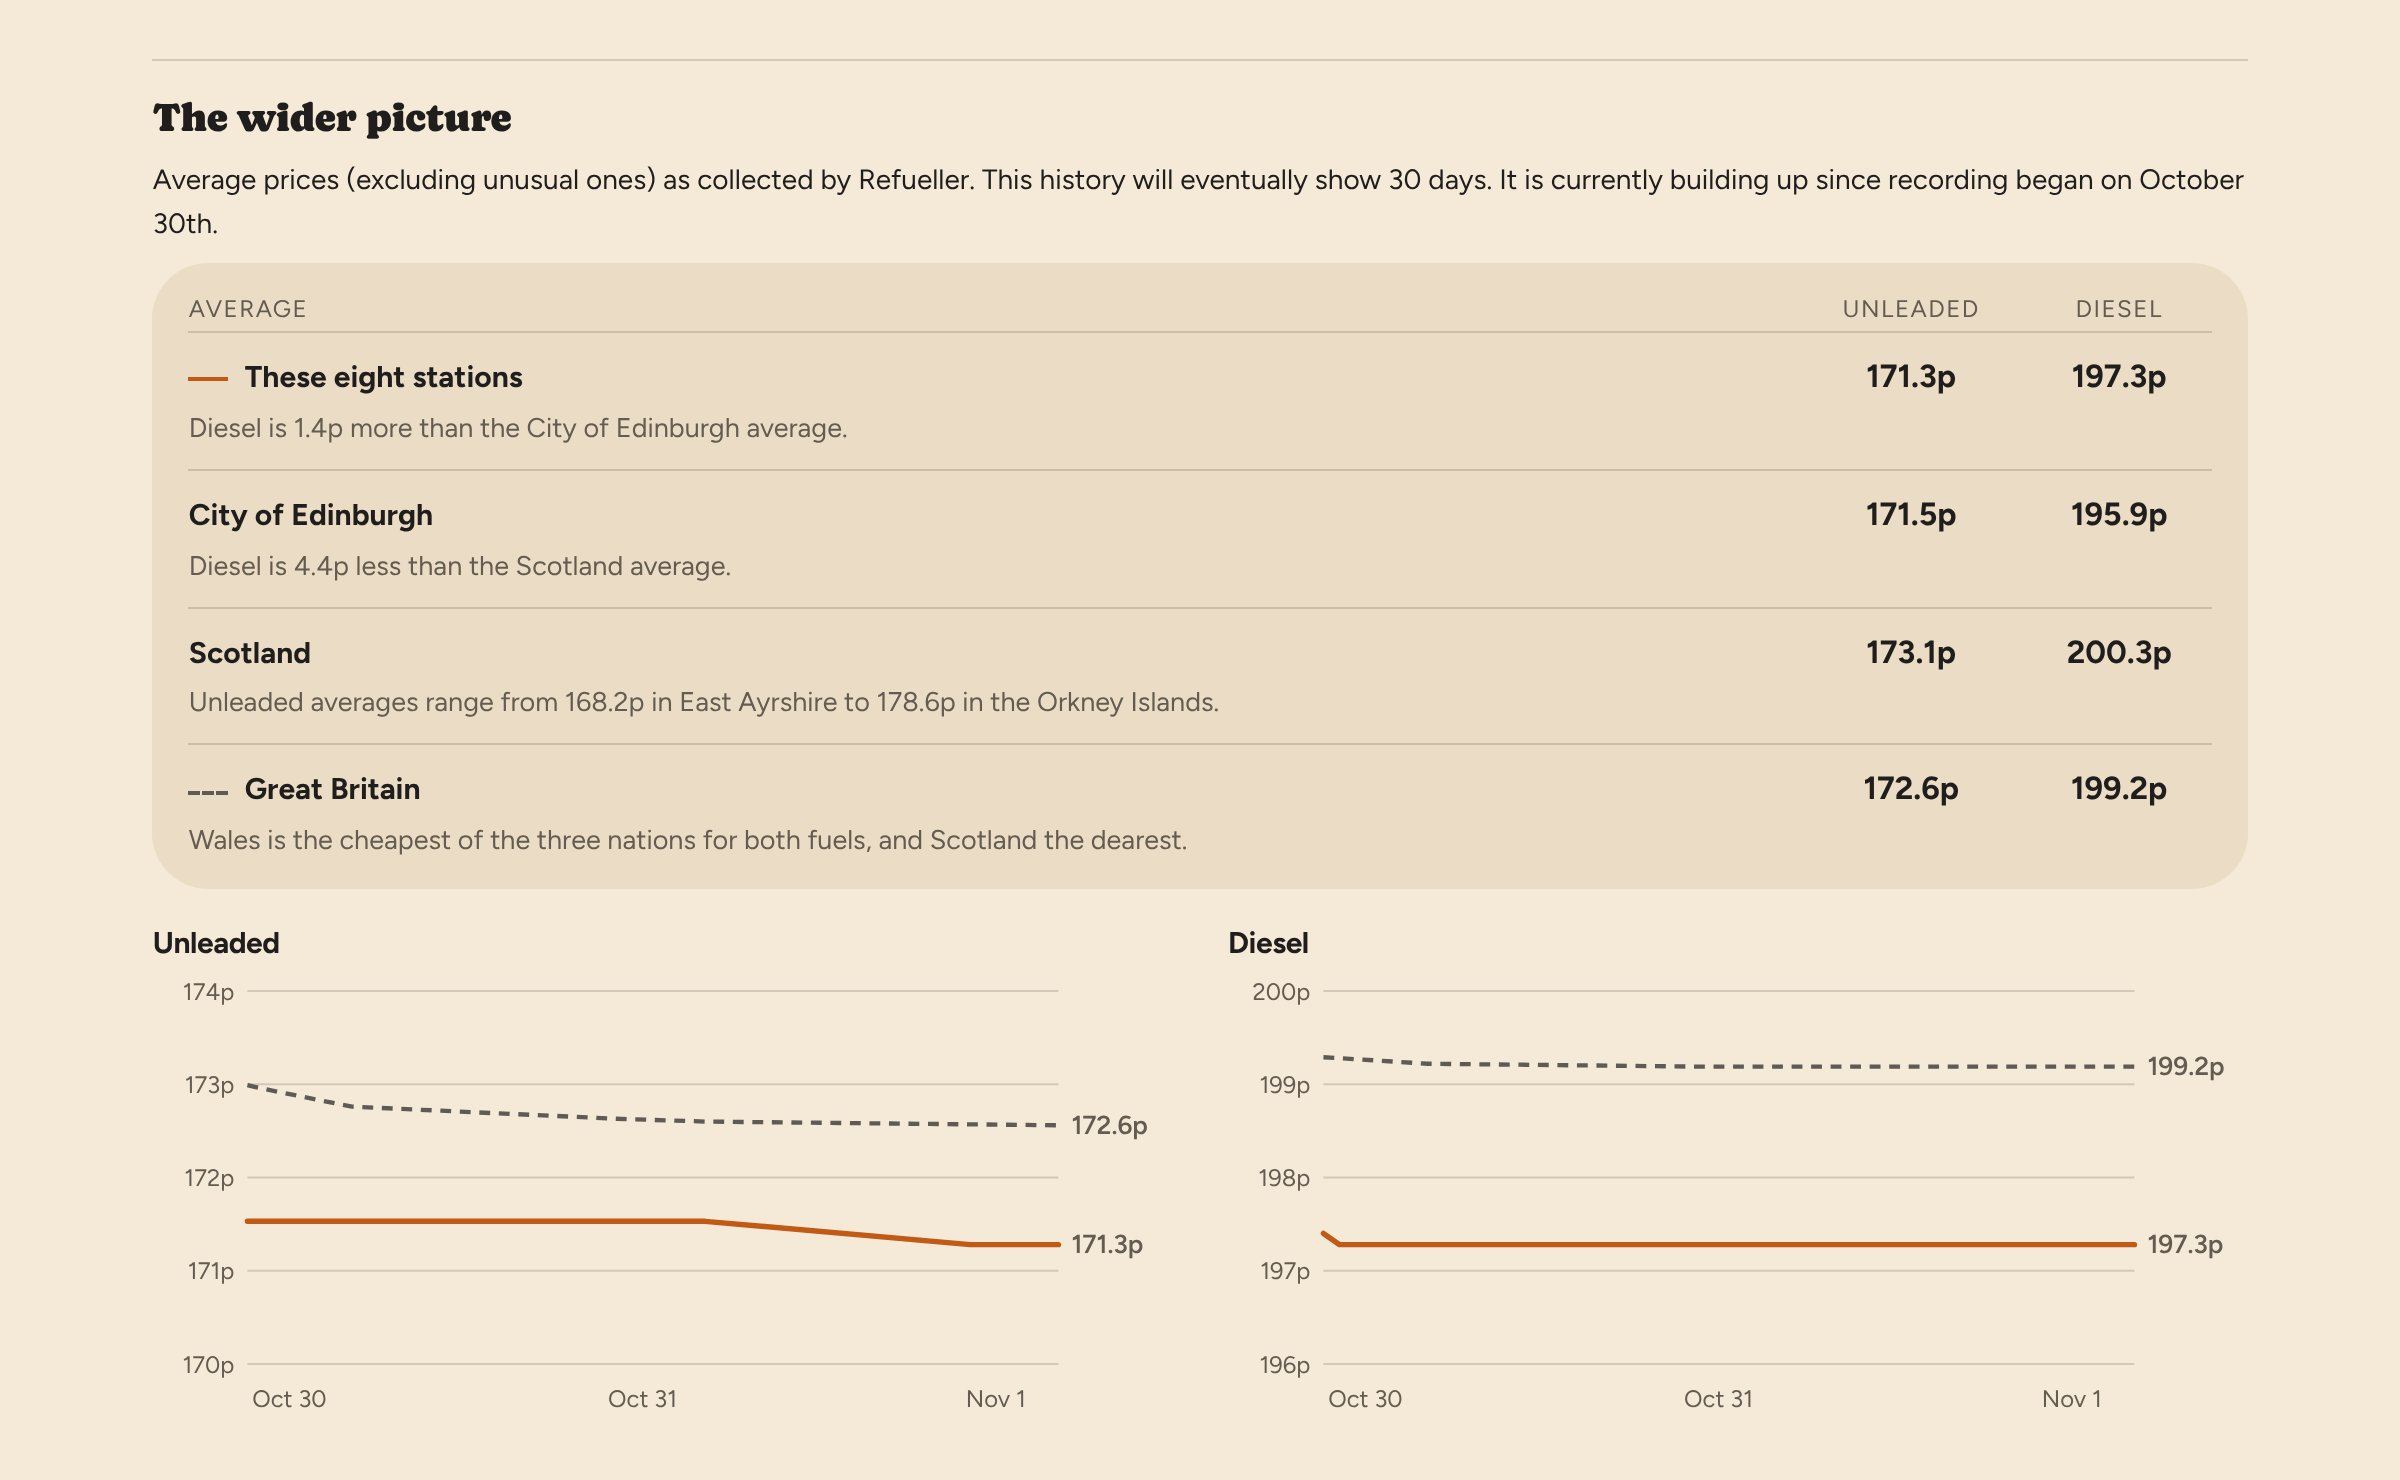
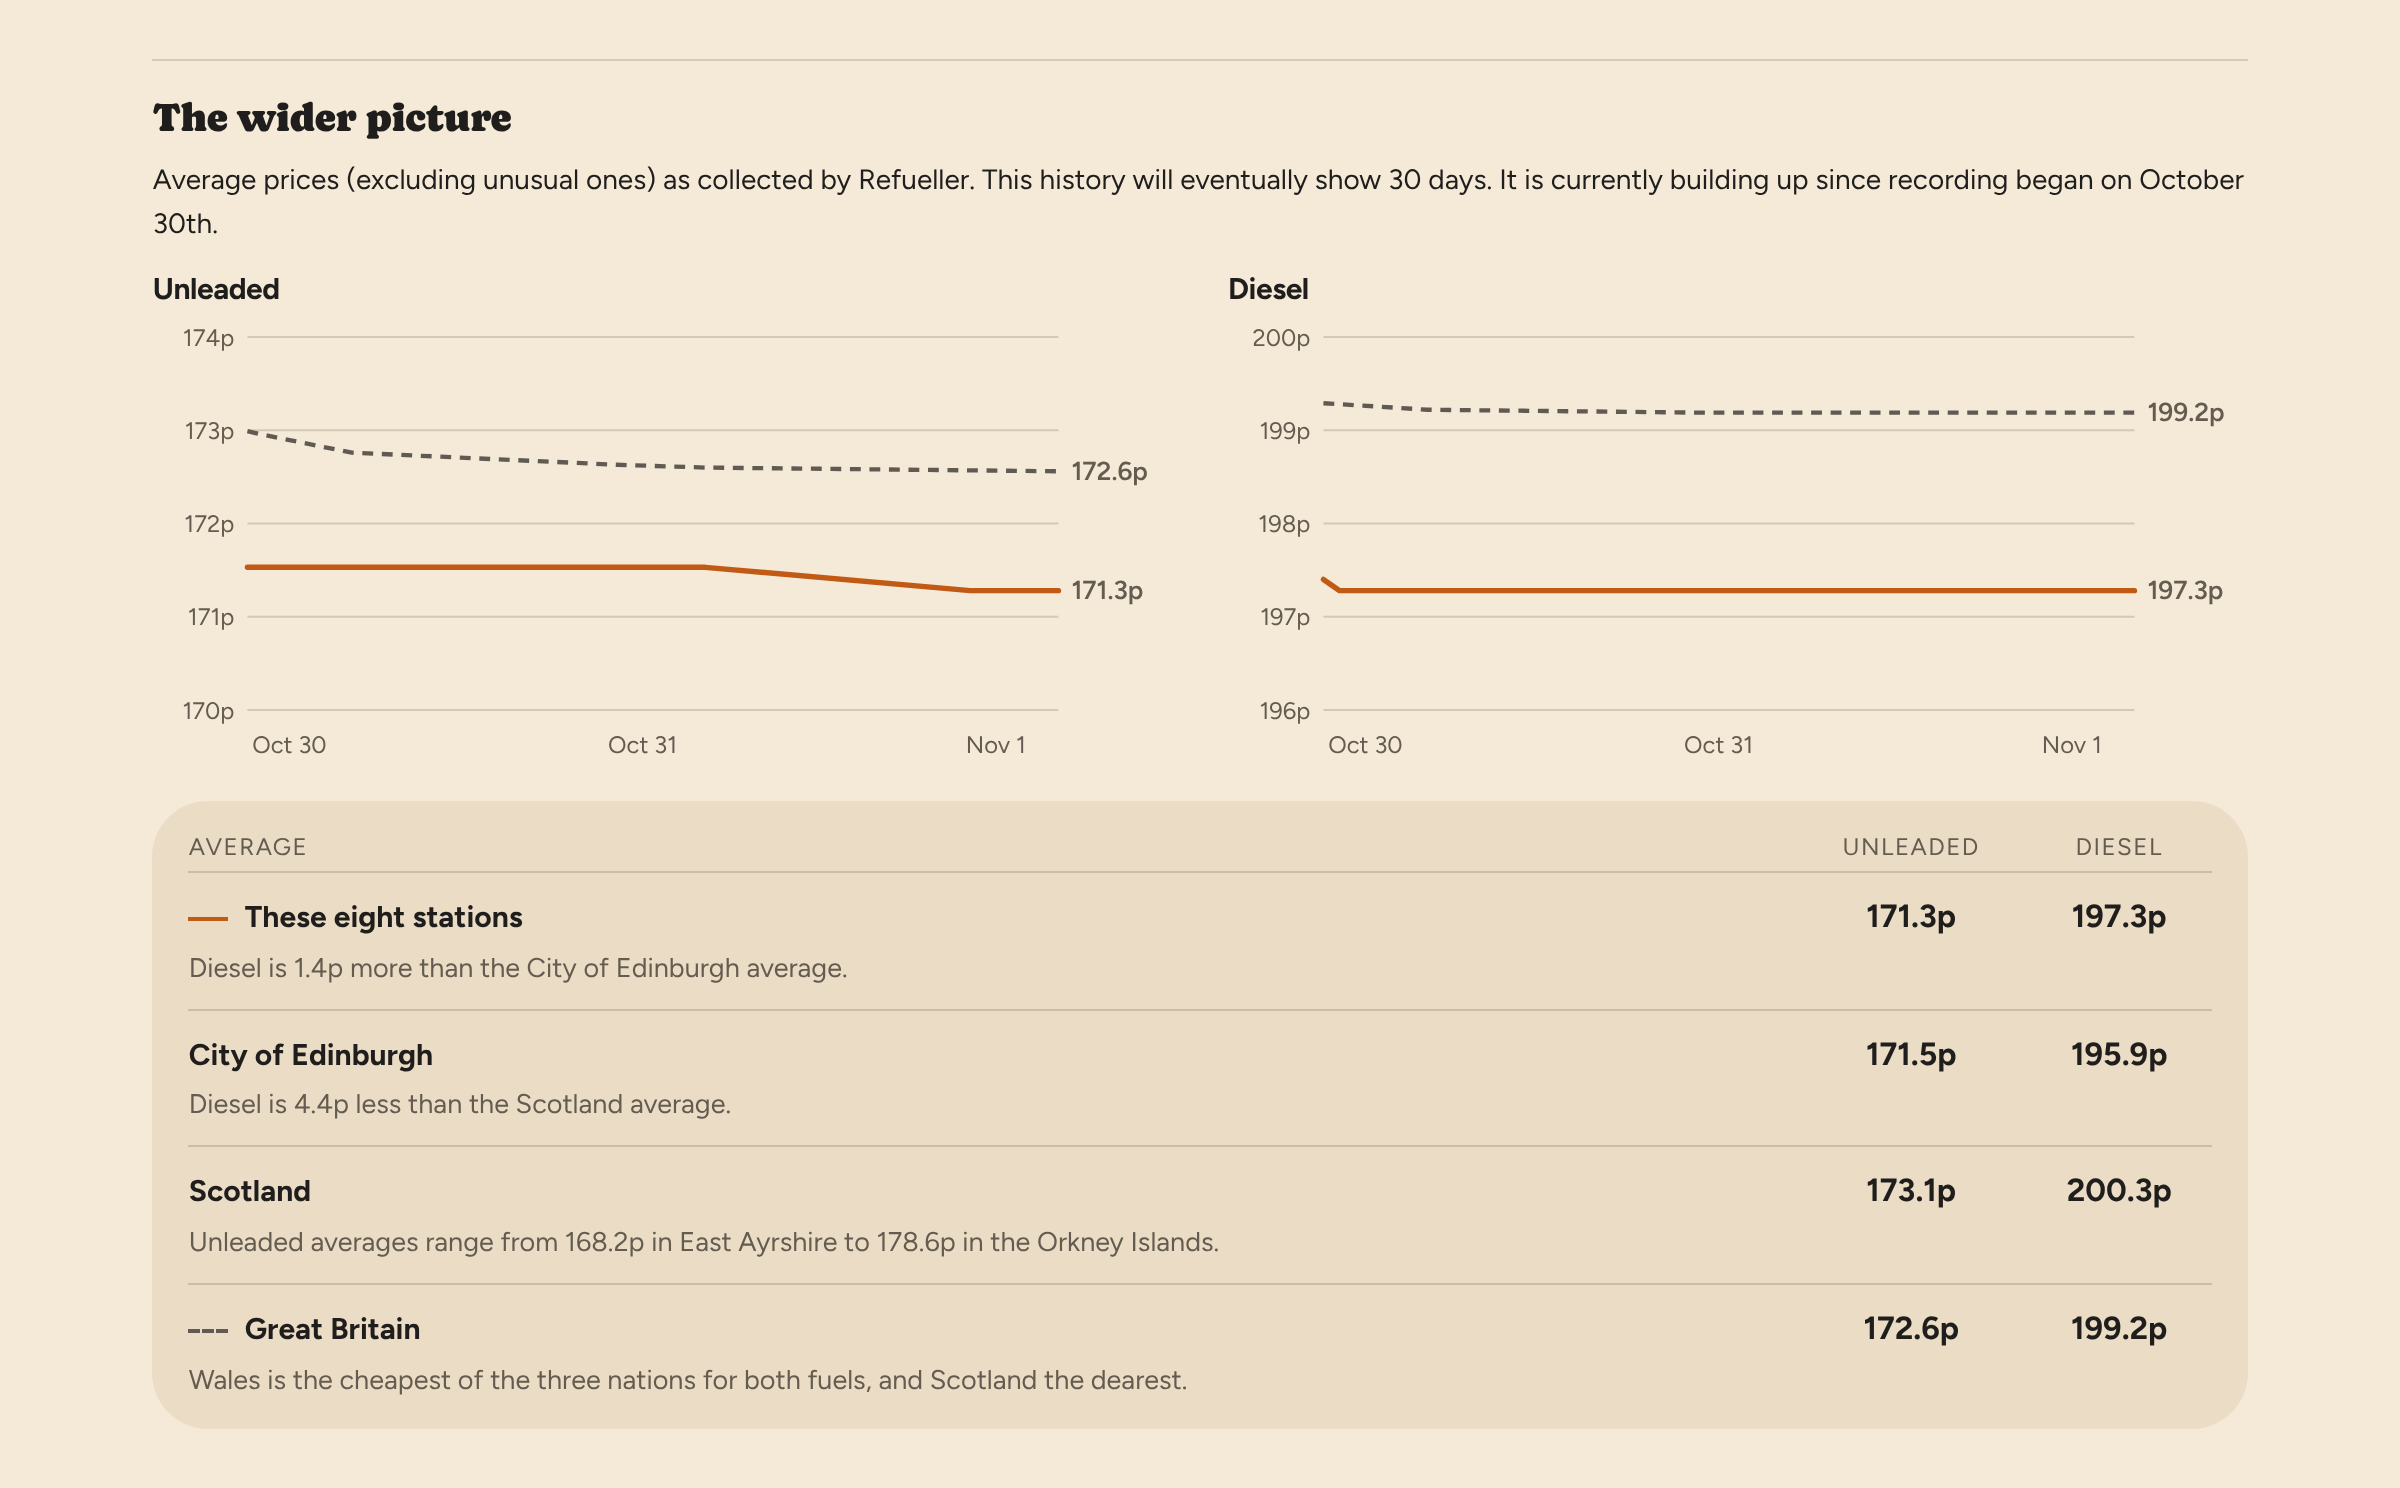
The wider picture: charts first, then the list (John)
Claude-Session: https://claude.ai/code/session_01BsvHLG2WkMc3y6rTAX7wgY

diff --git a/src/components/Averages.tsx b/src/components/Averages.tsx
@@ -172,8 +172,18 @@ export function AveragesSection({ index, rows, histories, where }: { index: Page
           ? `Average prices (excluding unusual ones) as collected by Refueller. This history will eventually show ${AVERAGE_DAYS} days. It is currently building up since recording began on ${dateWords(Date.parse(page.first[0]), false)}.`
           : `Average prices over the last ${AVERAGE_DAYS} days as collected by Refueller. Unusual prices are not included.`}
       </p>
-      {/* The averages at every level (John, November 1st: option B), in place of the charts' key: the two rows drawn in the charts
-          carry their line. */}
+      <div className="avg-charts">
+        <div className="hist avg-ch">
+          <h4>Unleaded</h4>
+          <Chart lines={linesFor('e10')} fuelName="Unleaded" narrow={narrow} start={start} end={end} />
+        </div>
+        <div className="hist avg-ch">
+          <h4>Diesel</h4>
+          <Chart lines={linesFor('diesel')} fuelName="Diesel" narrow={narrow} start={start} end={end} />
+        </div>
+      </div>
+      {/* The averages at every level (John, November 1st: option B), under the charts (John: graph first), as their key: the two
+          rows drawn in the charts carry their line. */}
       <div className="lv-box">
         <div className="lv-row lv-head" aria-hidden="true">
           <span>Average</span>
@@ -194,16 +204,6 @@ export function AveragesSection({ index, rows, histories, where }: { index: Page
             {r.fact && <span className="lv-fact">{r.fact}</span>}
           </div>
         ))}
-      </div>
-      <div className="avg-charts">
-        <div className="hist avg-ch">
-          <h4>Unleaded</h4>
-          <Chart lines={linesFor('e10')} fuelName="Unleaded" narrow={narrow} start={start} end={end} />
-        </div>
-        <div className="hist avg-ch">
-          <h4>Diesel</h4>
-          <Chart lines={linesFor('diesel')} fuelName="Diesel" narrow={narrow} start={start} end={end} />
-        </div>
       </div>
     </section>
   );

diff --git a/src/styles/global.css b/src/styles/global.css
@@ -276,9 +276,9 @@ tr.closed td:not(:last-child), .pcard.closed .grid > div:not(.openv) { opacity: 
 /* The journey list sorted as one list (John, November 1st 2026, option B): the end stations tagged. */
 .end-tag { display: inline-block; margin: 2px 0 3px; font-size: 10px; letter-spacing: 0.1em; text-transform: uppercase; color: var(--color-note); border: 1px solid currentColor; border-radius: 999px; padding: 1px 8px; }
 
-/* "The wider picture": the averages at every level (src/lib/levels.ts; John, November 1st, option B), in place of the charts' key.
+/* "The wider picture": the averages at every level (src/lib/levels.ts; John, November 1st, option B), under the charts, as their key.
    On a computer, the prices in two columns; on a phone, under the name. The fact beneath, in the notes' grey. */
-.lv-box { background: var(--color-surface); border-radius: var(--radius-lg, 14px); padding: 4px 18px; margin: 4px 0 14px; }
+.lv-box { background: var(--color-surface); border-radius: var(--radius-lg, 14px); padding: 4px 18px; margin: 18px 0 0; }
 .lv-row { display: grid; grid-template-columns: 1fr 92px 92px; column-gap: 12px; align-items: baseline; padding: 10px 0; border-top: 1px solid var(--color-divider); }
 .lv-row:first-child { border-top: 0; }
 .lv-head { font-size: 12px; letter-spacing: 0.06em; text-transform: uppercase; color: var(--color-neutral-700); padding: 10px 0 2px; }

diff --git a/CLAUDE.md b/CLAUDE.md
@@ -1891,3 +1891,10 @@ history" workflow now keeps every collection's averages at every level.
 **Branches tidied (same day):** ran "Delete merged branches" (trial, then the real run): `feature-levels` deleted (merged);
 `levels-mockups` deleted too, named as unmerged because its work went into `main` in the one combined commit, and kept first as the
 tag `archive/levels-mockups`. Only `main` is left.
+
+### 2026-11-01 — "The wider picture": the charts first, then the list (straight to `main`)
+
+**John:** swap them so the graph comes first, and merge. `src/components/Averages.tsx` draws the two charts, then the list (still
+the charts' key: the eight and Great Britain carry their line); `.lv-box` now has its gap above. Checked: `npm run check`, lint,
+build; the nine places at 1200px and 390px with touch, light and dark (`design/mock/levels-check.cjs`): no errors, no sideways
+scroll, nothing typed sent. Pictures `design/previews/levels/built-*.png` refreshed.
